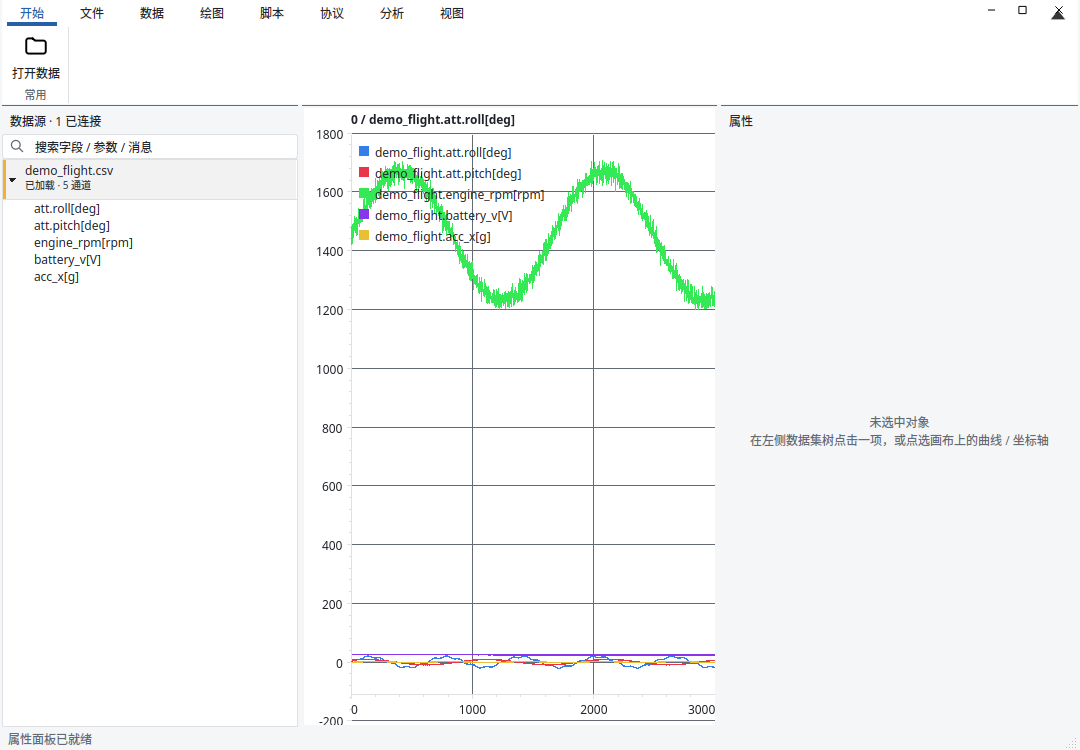
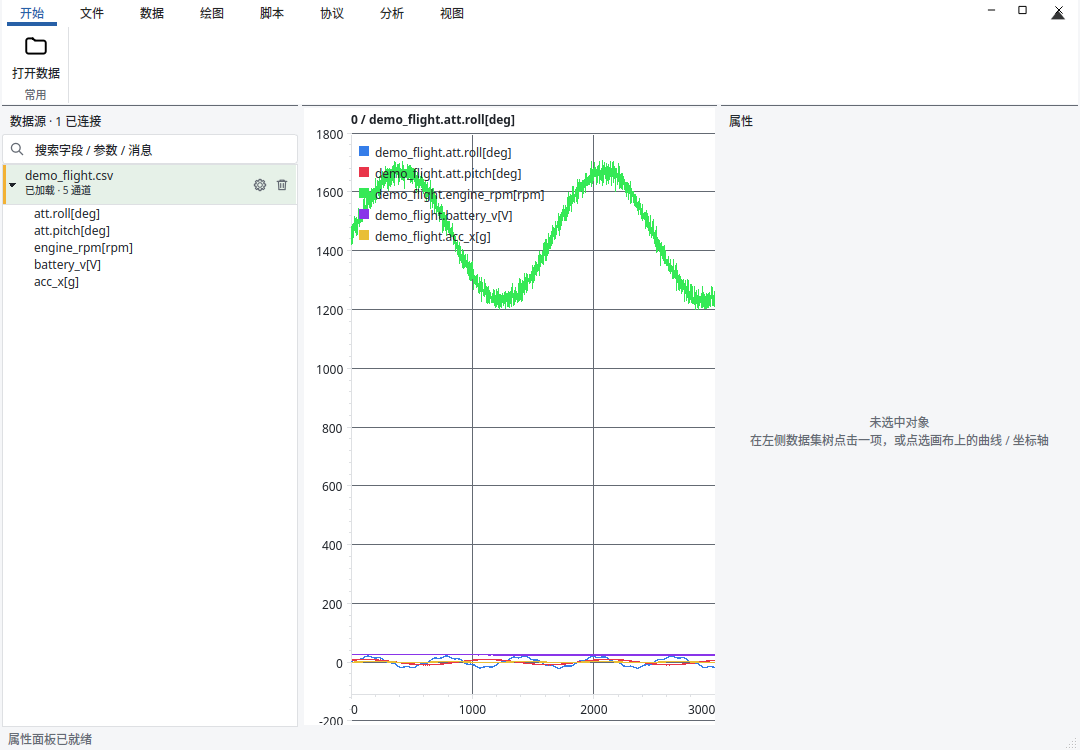
fix(gui): 数据源面板补齐老界面源卡片元素-状态底色/hover/右侧配置与移除图标/搜索框30px

Changed region(s): [[0.0, 0.184, 0.275, 0.3987]]

diff --git a/ng/modules/data/DataManagerPanel.cpp b/ng/modules/data/DataManagerPanel.cpp
@@ -86,6 +86,31 @@ class SourceRowDelegate : public QStyledItemDelegate
 public:
     explicit SourceRowDelegate(QObject *parent = nullptr) : QStyledItemDelegate(parent) {}
 
+    // 状态底色（对齐老界面 loaded绿/live青/off灰的半透明叠加）；stateText 为 UI 文案。
+    static QColor stateTint(const QString &stateText, const QPalette &pal)
+    {
+        const bool dark = pal.color(QPalette::Base).lightness() < 128;
+        if (stateText == QStringLiteral("运行中"))
+            return QColor(dark ? QColor(57, 197, 207) : QColor(57, 197, 207));   // 青
+        if (stateText == QStringLiteral("已加载") || stateText == QStringLiteral("已暂停"))
+            return QColor(126, 231, 135);                                        // 绿
+        if (stateText == QStringLiteral("错误"))
+            return QColor(229, 72, 77);                                          // 红
+        return QColor(110, 125, 136);                                            // 灰/离线
+    }
+
+    // 右侧操作图标（配置/移除），静态加载一次。
+    static const QIcon &settingsIcon()
+    {
+        static const QIcon ic(QStringLiteral(":/icons/settings.svg"));
+        return ic;
+    }
+    static const QIcon &trashIcon()
+    {
+        static const QIcon ic(QStringLiteral(":/icons/trash.svg"));
+        return ic;
+    }
+
     QSize sizeHint(const QStyleOptionViewItem &opt, const QModelIndex &index) const override
     {
         if (index.data(kRoleNodeKind).toString() != QStringLiteral("source"))
@@ -107,8 +132,10 @@ public:
         const QColor card = sourceCardColor(pal);
         const QRect r = opt.rect;
         // 顶层项 rect 从缩进区后开始（≈17px）；老界面卡片贴面板左边缘，故左边界取 0。
+        // 右边界取视口宽（item rect.right() 可能超出可视区，图标会被画到面板外）。
+        auto *view = qobject_cast<const QTreeWidget *>(parent());
+        const int cardRight = (view ? view->viewport()->width() : r.right()) - 1;
         const int cardLeft = 0;
-        const int cardRight = r.right();
 
         p->save();
         // 整行卡片底色：从视口最左铺到行尾，盖过缩进区（选中态用高亮色）
@@ -116,6 +143,20 @@ public:
                     opt.state & QStyle::State_Selected
                         ? pal.color(QPalette::Highlight).lighter(120)
                         : card);
+        // 状态底色叠加（对齐老界面 loaded绿/live青/off灰半透明）
+        if (!(opt.state & QStyle::State_Selected))
+        {
+            QColor tint = stateTint(index.data(Qt::UserRole).toString(), pal);
+            tint.setAlpha(26); // ~10% 强度
+            p->fillRect(QRect(cardLeft, r.top(), cardRight - cardLeft, r.height()), tint);
+        }
+        // hover 高亮（老界面 QWidget:hover）
+        if (opt.state & QStyle::State_MouseOver)
+        {
+            QColor hover = pal.color(QPalette::Text);
+            hover.setAlpha(14);
+            p->fillRect(QRect(cardLeft, r.top(), cardRight - cardLeft, r.height()), hover);
+        }
         // 激活源左侧橙色竖条（老界面 #f2b134），贴最左
         if (active)
             p->fillRect(QRect(cardLeft, r.top(), 3, r.height()), QColor(QStringLiteral("#f2b134")));
@@ -124,8 +165,7 @@ public:
         p->drawLine(cardLeft, r.bottom(), cardRight, r.bottom());
 
         // 自绘展开箭头（原生箭头位于缩进区、已被卡片底色覆盖）：橙条右侧
-        auto *tree = qobject_cast<const QTreeWidget *>(parent());
-        const bool expanded = tree && tree->isExpanded(index);
+        const bool expanded = view && view->isExpanded(index);
         const bool hasChildren = index.model()->hasChildren(index);
         const int arrowX = cardLeft + 9;
         const int arrowY = r.top() + r.height() / 2;
@@ -148,8 +188,10 @@ public:
         const int sep = text.indexOf(QLatin1Char('\n'));
         const QString name = sep < 0 ? text : text.left(sep);
         const QString meta = sep < 0 ? QString() : text.mid(sep + 1);
+        // 右侧操作图标区（配置/移除），文字避开它
+        const int iconZone = 48;
         const int left = cardLeft + (hasChildren ? 22 : 8);
-        const int textW = cardRight - left - 6;
+        const int textW = cardRight - left - iconZone;
         const int nameH = 16;
         QFont nameFont = opt.font;
         nameFont.setPixelSize(12);
@@ -166,6 +208,11 @@ public:
             p->drawText(QRect(left, r.top() + 2 + nameH, textW, 14),
                         Qt::AlignLeft | Qt::AlignVCenter | Qt::TextElideMode::ElideRight, meta);
         }
+
+        // 右侧操作图标：配置（齿轮）+ 移除（垃圾桶），对齐老界面源卡片右端。
+        const int iconY = r.top() + (r.height() - 16) / 2;
+        settingsIcon().paint(p, QRect(cardRight - iconZone + 4, iconY, 16, 16));
+        trashIcon().paint(p, QRect(cardRight - iconZone + 26, iconY, 16, 16));
         p->restore();
     }
 };
@@ -274,6 +321,7 @@ DataManagerPanel::DataManagerPanel(AppContext &appCtx, IIntentExecutor &executor
     m_filter->setPlaceholderText(QStringLiteral("搜索字段 / 参数 / 消息"));
     m_filter->setClearButtonEnabled(true);
     m_filter->setObjectName(QStringLiteral("searchBox"));
+    m_filter->setFixedHeight(30); // 对齐老界面 m_srcFilter->setFixedHeight(30)
     // 对齐老界面：搜索框左侧带搜索图标（LeadingPosition）。
     m_filter->addAction(QIcon(QStringLiteral(":/icons/search.svg")), QLineEdit::LeadingPosition);
     // 对齐老界面：搜索框与数据源树左右边缘齐平，不要额外内边距。
